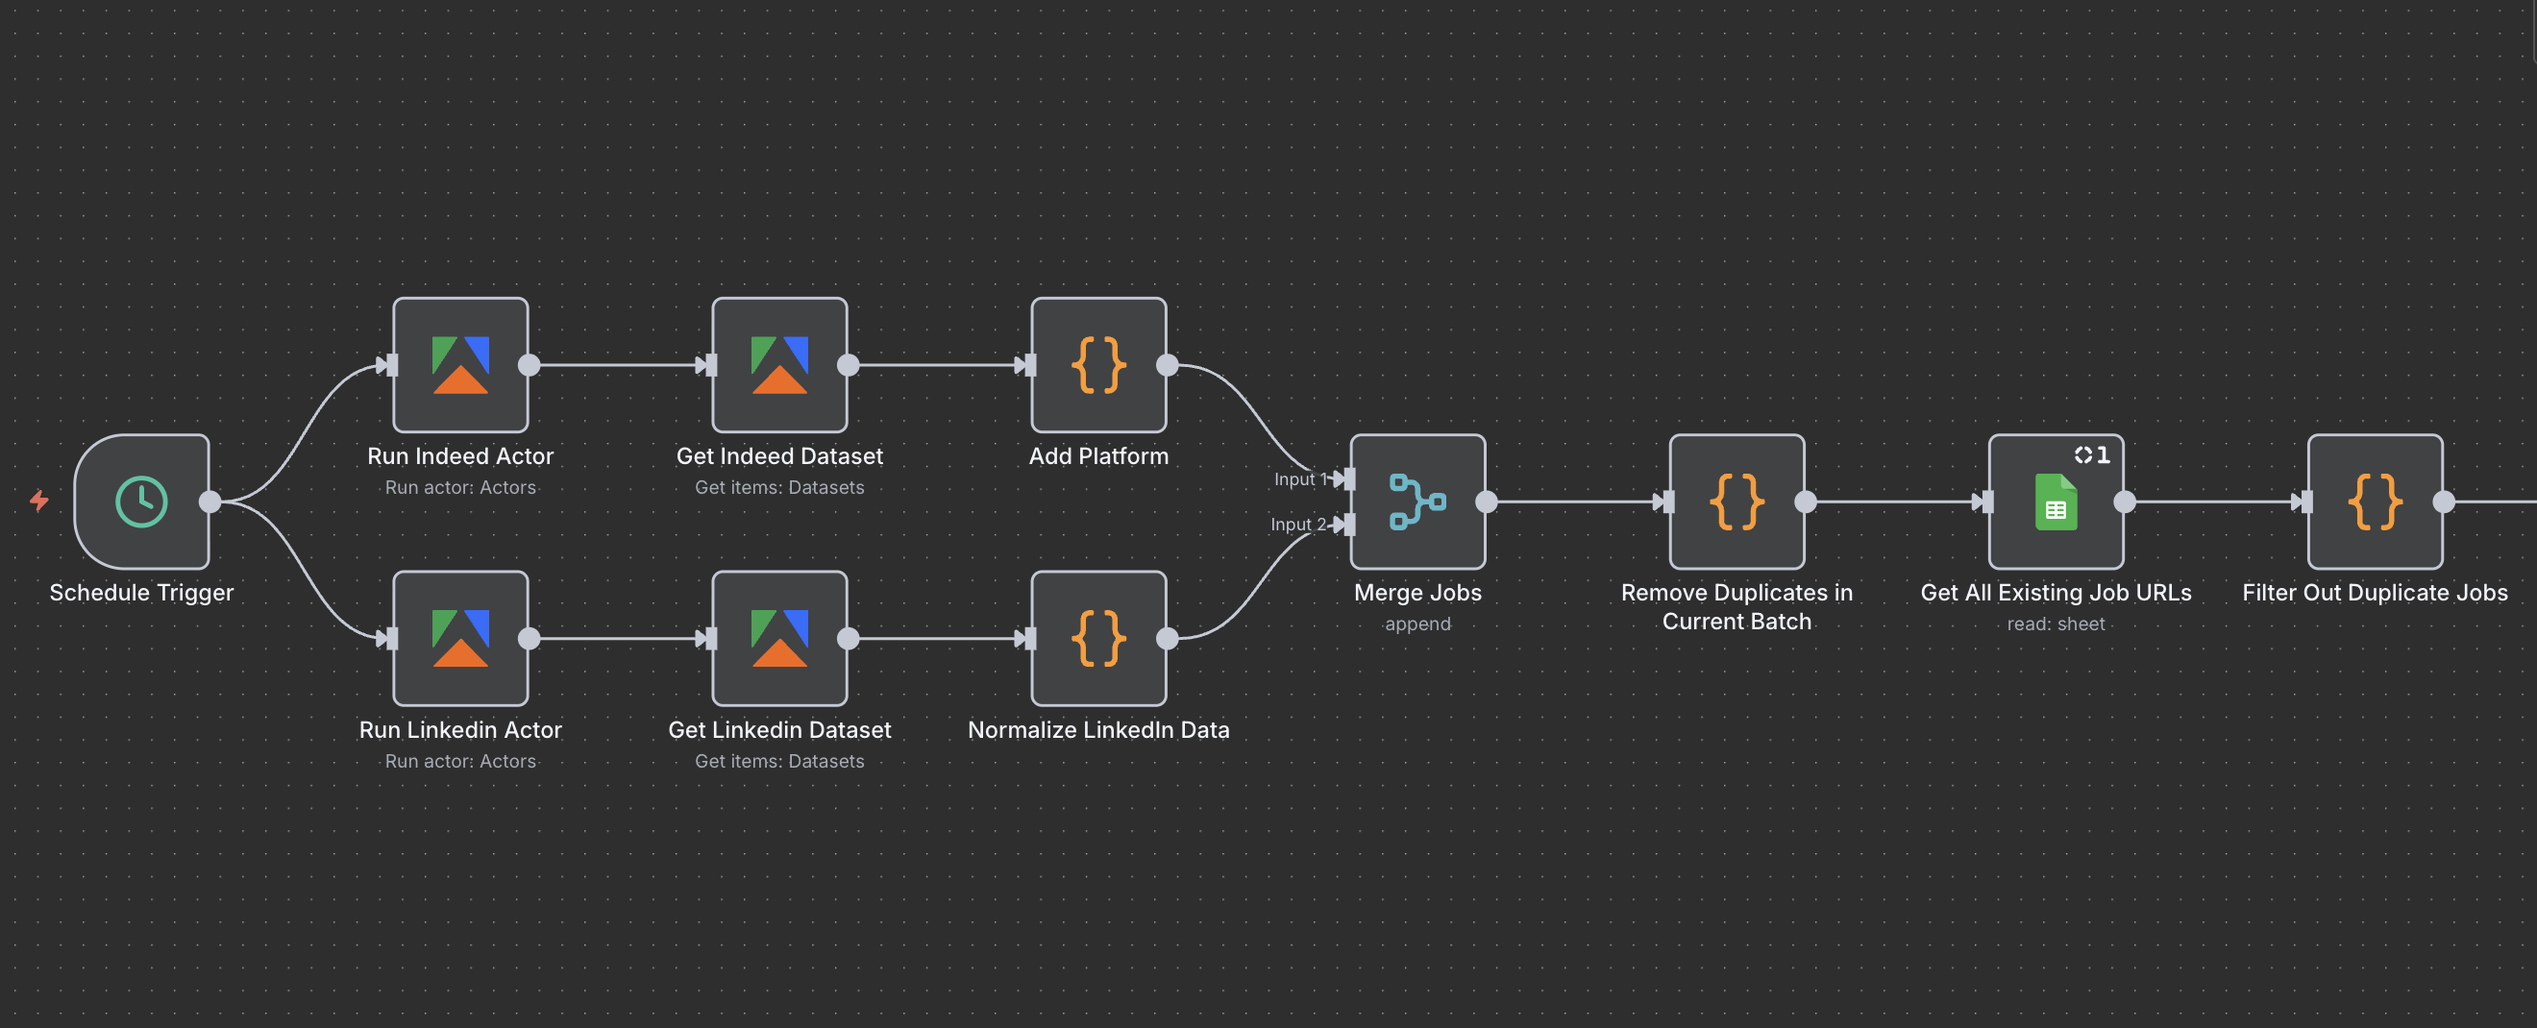
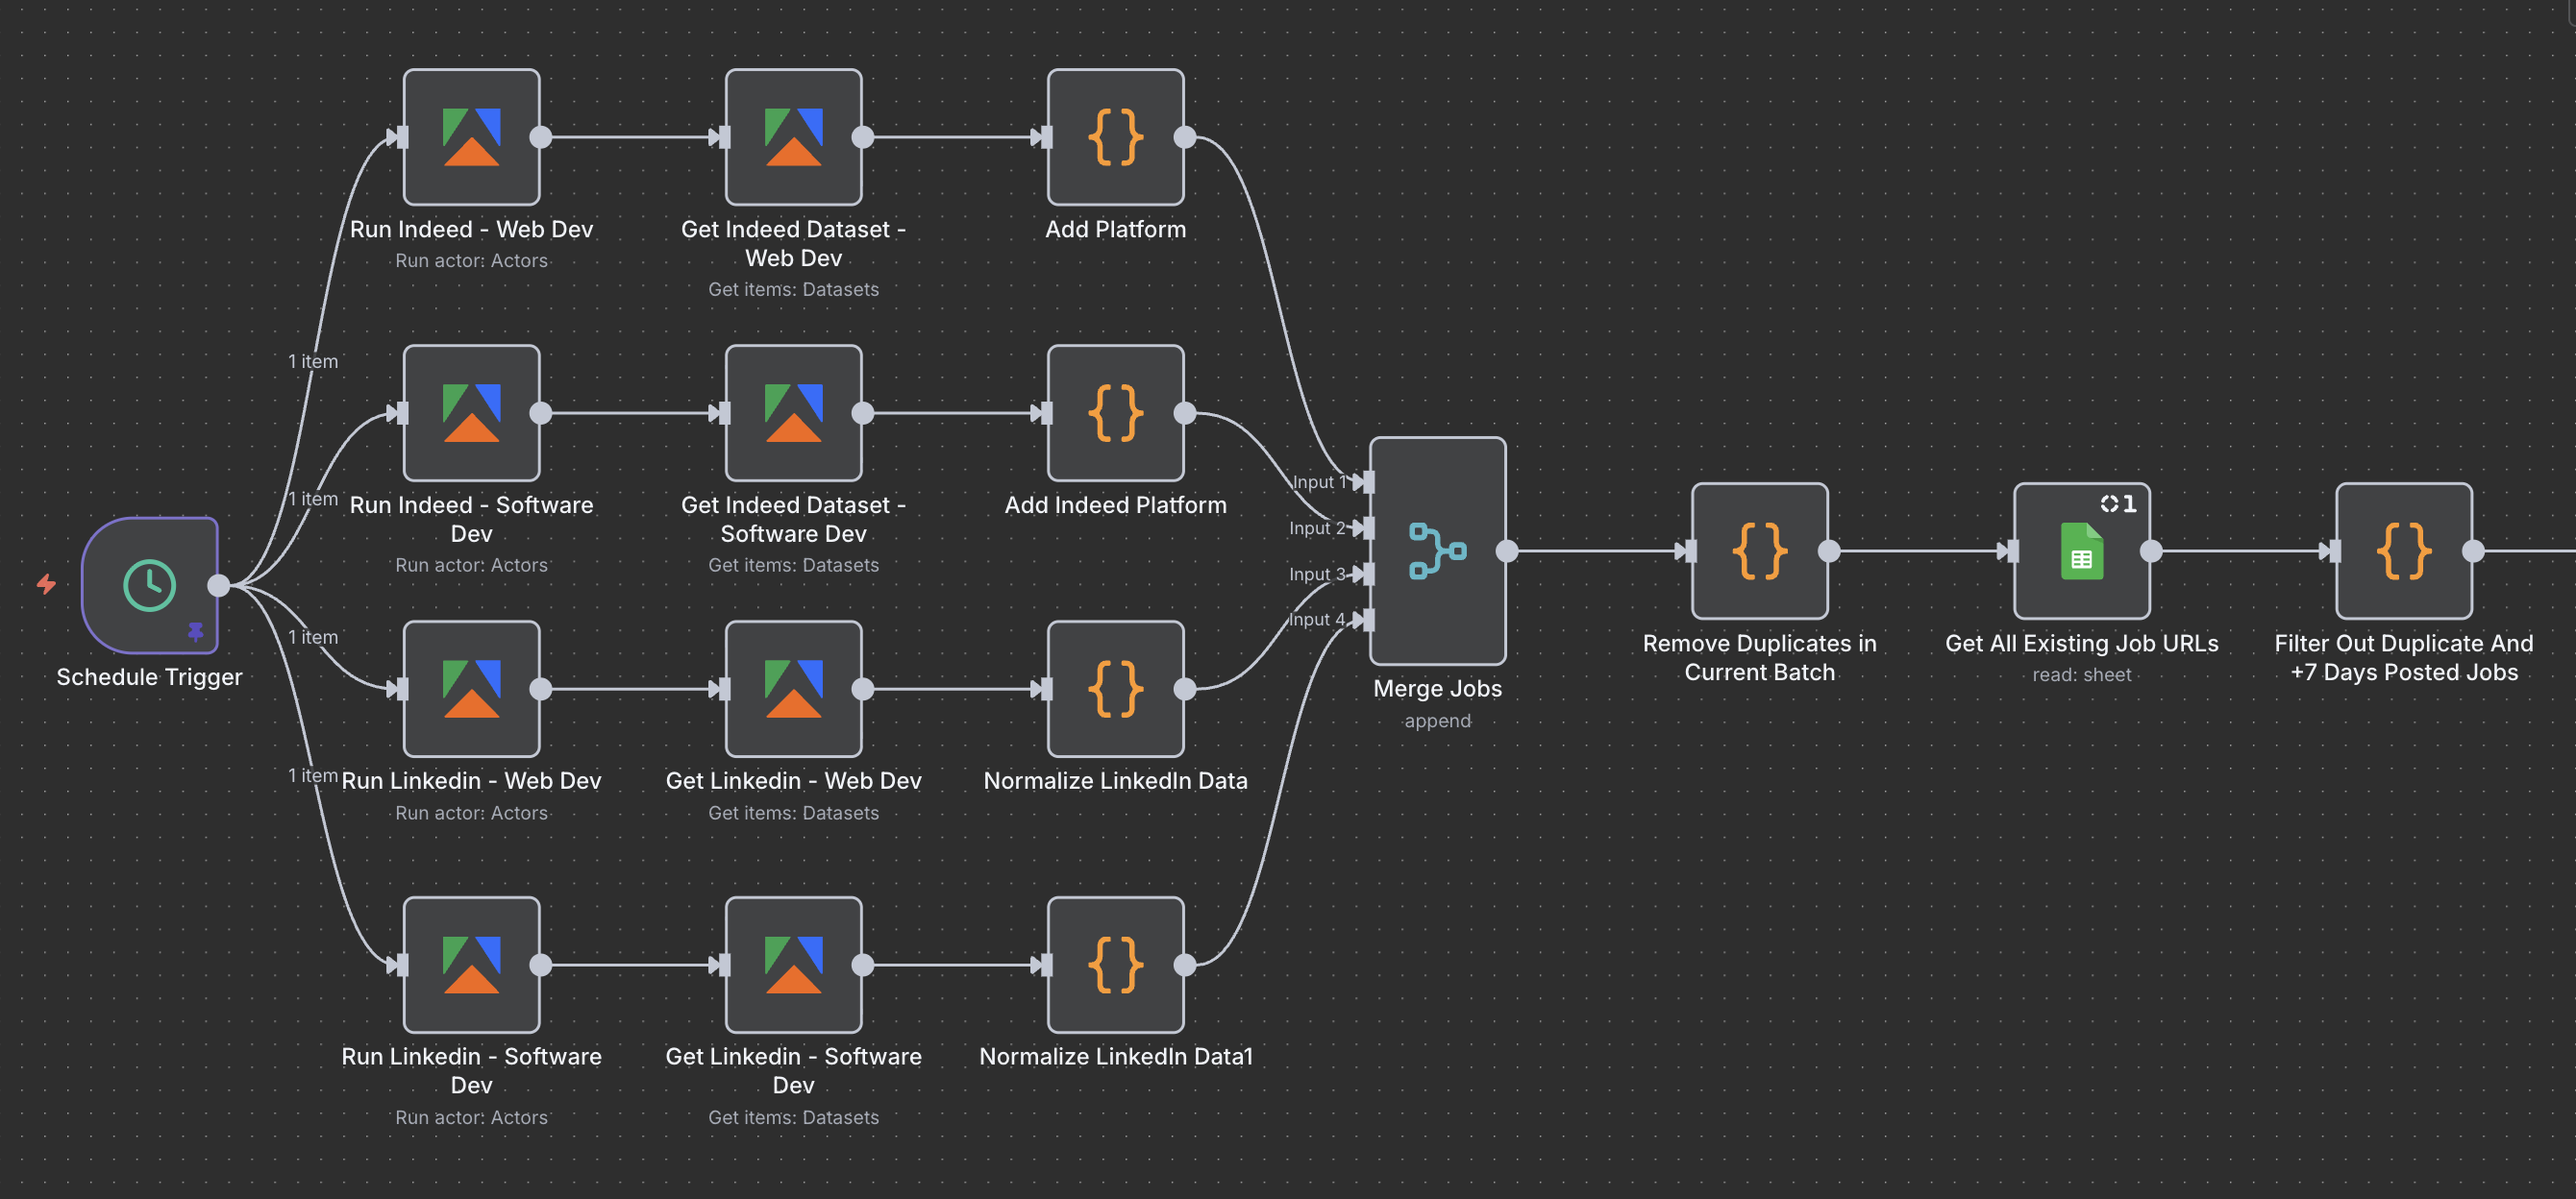
Update documentation and add Legacy Resume's folder
- Updated README.md to reflect 4 parallel API sources (Indeed + LinkedIn for Web Dev and Software Dev)

- Added 7-day age filter for jobs
- Added email notification feature documentation
- Updated workflow diagram to show 4 sources merging
- Updated SETUP_GUIDE.md with:
  * MailerSend API setup instructions
  * 4 parallel search node configuration
  * Job filtering customization guide
  * Updated cost estimates
- Added Legacy Resume's folder with previous resume versions
- Updated workflow screenshots to match new flow

diff --git a/README.md b/README.md
@@ -6,12 +6,14 @@ Automates job searching on Indeed and LinkedIn using n8n. Scores jobs with AI, g
 
 ## Features
 
-- Scrapes jobs from Indeed and LinkedIn daily
-- Removes duplicates to save on API costs (26-69% savings)
+- Scrapes jobs from Indeed and LinkedIn daily using 4 parallel searches (Software Developer + Web Developer on both platforms)
+- Filters out senior and backend positions automatically
+- Removes duplicates and jobs older than 7 days to save on API costs
 - AI scores jobs 0-10 based on resume fit, salary, remote work, and benefits
 - Recommends which resume version to use (supports 4 versions)
 - Auto-generates cover letters for high-scoring jobs (>5/10)
 - Stores all data in Google Sheets with application tracking
+- Email notifications when new jobs are found
 
 ## How It Works
 
@@ -20,28 +22,34 @@ Automates job searching on Indeed and LinkedIn using n8n. Scores jobs with AI, g
 
 ```
 Schedule Trigger (Daily at 9 AM)
-  ├─→ Indeed Actor → Get Dataset → Add Platform ─┐
-  └─→ LinkedIn Actor → Get Dataset → Normalize ──┤
+  ├─→ Indeed (Web Dev) → Get Dataset → Add Platform ────────┐
+  ├─→ Indeed (Software Dev) → Get Dataset → Add Platform ────┤
+  ├─→ LinkedIn (Web Dev) → Get Dataset → Normalize ──────────┤
+  └─→ LinkedIn (Software Dev) → Get Dataset → Normalize ─────┤
+                                                              ↓
+                                                       [MERGE 4 SOURCES]
+                                                              ↓
+                                 Remove Duplicates (Senior, Backend, MERN)
+                                                              ↓
+                                         Get All Existing Job URLs
+                                                              ↓
+                              Filter Out Duplicates & Jobs Older Than 7 Days
+                                                              ↓
+                                         Loop Over Dataset Items
+                                                              ↓
+                                           Score and Reason (AI)
+                                                              ↓
+                                         JSONify Score & Reasoning
+                                                              ↓
+                                               If Score > 5?
+                                                   ↓ Yes
+                                         Generate Cover Letter (AI)
                                                    ↓
-                                            [MERGE JOBS]
+                                         Append to Google Sheets
                                                    ↓
-                              Remove Duplicates in Current Batch
+                                            [Loop Completes]
                                                    ↓
-                                  Get All Existing Job URLs
-                                                   ↓
-                                  Filter Out Duplicate Jobs
-                                                   ↓
-                                  Loop Over Dataset Items
-                                                   ↓
-                                    Score and Reason (AI)
-                                                   ↓
-                                  JSONify Score & Reasoning
-                                                   ↓
-                                    If Score > 5?
-                                        ↓ Yes
-                              Generate Cover Letter (AI)
-                                        ↓
-                              Append to Google Sheets
+                                      Aggregate Results & Send Email
 ```
 
 ## Setup
@@ -52,6 +60,7 @@ Schedule Trigger (Daily at 9 AM)
 - Apify account
 - Google Gemini API key
 - Google Sheets
+- MailerSend account (or any email service for notifications)
 
 **Installation:**
 
@@ -72,15 +81,18 @@ Schedule Trigger (Daily at 9 AM)
 4. Create a Google Sheet with columns: Title, Platform, Date, Company Name, City, Expired, Remote, Link, Rating, Resume Version, Cover Letter, Salary, Job Description, Status
 
 5. Update these nodes:
-   - Search parameters in Indeed/LinkedIn actors
+   - Search parameters in Indeed/LinkedIn actors (4 nodes: Web Dev + Software Dev for each platform)
    - Google Sheets document ID
    - Your resume versions in JSONify node
+   - MailerSend API token and email addresses in Send Email node
 
 See `SETUP_GUIDE.md` for detailed steps.
 
 ## Customization
 
-**Search parameters** - Edit the actor nodes to change location, keywords, or job type
+**Search parameters** - Edit the 4 actor nodes to change location, keywords, or job type (2 Indeed + 2 LinkedIn)
+
+**Job filtering** - Edit the "Remove Duplicates in Current Batch" node to filter out unwanted job titles (currently filters: Senior, Backend, MERN)
 
 **Scoring criteria** - Modify the "Score and Reason" node:
 
@@ -100,12 +112,14 @@ All jobs saved with AI rating, recommended resume version, and personalized cove
 
 ## Performance
 
-With 100 jobs/day:
+With 4 parallel searches (200 jobs/day total):
 
-- ~23 duplicates filtered
-- ~77 unique jobs scored
-- ~38 cover letters generated
-- Saves ~26% on AI costs
+- Automatically filters: Senior positions, Backend roles, MERN developers
+- Removes duplicates across all 4 sources
+- Filters jobs older than 7 days
+- ~100-150 unique jobs scored after filtering
+- ~50-75 cover letters generated for high-scoring jobs
+- Email notification sent with results summary
 
 ## Author
 

diff --git a/SETUP_GUIDE.md b/SETUP_GUIDE.md
@@ -114,6 +114,25 @@ docker run -it --rm \
    - Name it "Google Sheets account"
    - Click "Save"
 
+### 4. MailerSend API (Optional but Recommended)
+
+**Step-by-step:**
+1. Go to [mailersend.com](https://mailersend.com)
+2. Sign up for a free account
+3. Verify your sending domain (or use their test domain)
+4. Navigate to Settings → API Tokens
+5. Create a new API token
+6. Copy the token
+7. In the workflow:
+   - Open "Send Email via MailerSend" node
+   - Replace `YOUR_MAILERSEND_API_TOKEN` with your token
+   - Replace `YOUR_SENDER_EMAIL` with your verified sender email
+   - Replace `YOUR_RECIPIENT_EMAIL` with your email address
+
+**Free Tier:** 12,000 emails/month
+
+**Alternative:** You can use any email service (SendGrid, SMTP, etc.) or disable email notifications by disconnecting this node.
+
 ---
 
 ## Google Sheets Setup
@@ -165,10 +184,14 @@ docker run -it --rm \
 After importing, you need to assign credentials to nodes:
 
 **Nodes requiring Apify credentials:**
-- Run Indeed Actor
-- Get Indeed Dataset
-- Run Linkedin Actor
-- Get Linkedin Dataset
+- Run Indeed - Web Dev
+- Run Indeed - Software Dev
+- Get Indeed Dataset - Web Dev
+- Get Indeed Dataset - Software Dev
+- Run Linkedin - Web Dev
+- Run Linkedin - Software Dev
+- Get Linkedin - Web Dev
+- Get Linkedin - Software Dev
 
 **Nodes requiring Google Gemini credentials:**
 - Score and Reason
@@ -203,26 +226,27 @@ After importing, you need to assign credentials to nodes:
 
 ### 2. Configure Job Search Parameters
 
-**Indeed (Run Indeed Actor node):**
+The workflow uses 4 parallel search nodes. Update each one with your preferences:
+
+**Indeed - Web Dev & Indeed - Software Dev nodes:**
 ```json
 {
   "country": "ca",              // Change to your country code
   "location": "North York",     // Change to your location
   "maxRows": 50,                // Max jobs per run
-  "query": "web developer",     // Change to your job search
+  "query": "web developer",     // One node: "web developer", other: "software developer"
   "jobType": "fulltime",        // fulltime, parttime, contract
-  "remote": "remote",           // remote, hybrid, onsite
   "fromDays": "1"               // Jobs from last N days
 }
 ```
 
-**LinkedIn (Run Linkedin Actor node):**
+**LinkedIn - Web Dev & LinkedIn - Software Dev nodes:**
 ```json
 {
   "count": 100,                 // Max jobs to scrape
   "scrapeCompany": true,        // Get company details
   "urls": [
-    "YOUR_LINKEDIN_SEARCH_URL"  // Update with your search URL
+    "YOUR_LINKEDIN_SEARCH_URL"  // Update with your search URL (one for "web developer", one for "software developer")
   ]
 }
 ```
@@ -233,7 +257,22 @@ After importing, you need to assign credentials to nodes:
 3. Copy the URL from browser address bar
 4. Paste in the workflow configuration
 
-### 3. Add Your Resume Data
+### 3. Configure Job Filters (Optional)
+
+Edit the `Remove Duplicates in Current Batch` node to filter unwanted job titles:
+
+**Currently filters:**
+- Senior positions (includes "senior" or "sr.")
+- Backend positions
+- MERN developer positions
+
+**To customize:**
+1. Click on the node
+2. Find the filter conditions in the JavaScript code
+3. Add or remove filters based on your preferences
+4. Common filters: "principal", "staff", "lead", "manager", etc.
+
+### 4. Add Your Resume Data
 
 Edit the `JSONify score and reasoning` node:
 1. Click on the node
@@ -244,14 +283,14 @@ Edit the `JSONify score and reasoning` node:
 
 Refer to `Resumes/` folder for sample format.
 
-### 4. Adjust Scoring Criteria (Optional)
+### 5. Adjust Scoring Criteria (Optional)
 
 Edit `Score and Reason` node to change:
 - Salary thresholds
 - Scoring weights
 - Resume version descriptions
 
-### 5. Customize Cover Letter Style (Optional)
+### 6. Customize Cover Letter Style (Optional)
 
 Edit `Generate Cover Letter` node prompt to adjust:
 - Tone (formal vs casual)
@@ -376,13 +415,16 @@ After successful setup:
 
 ## Cost Estimate (Monthly)
 
-- Apify: Free tier ($5 credit)
-- Google Gemini: Free tier (1,500 requests/day)
+- Apify: Free tier ($5 credit) - enough for ~200 jobs/day
+- Google Gemini: Free tier (1,500 requests/day) - covers scoring and cover letters
 - Google Sheets: Free
+- MailerSend: Free tier (12,000 emails/month) - more than enough for daily notifications
 - n8n Desktop: Free
 - n8n Cloud: $20/month (optional)
 
 **Total: $0-20/month depending on usage and n8n hosting choice**
+
+Note: With 4 parallel searches, you may need to upgrade Apify if you exceed the free tier.
 
 ---
 
